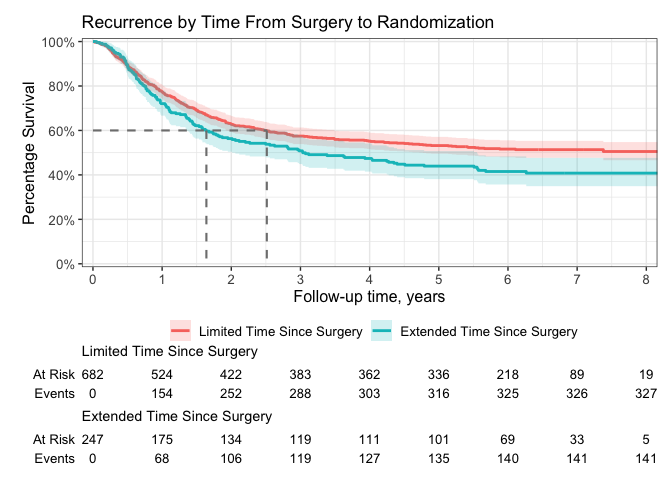
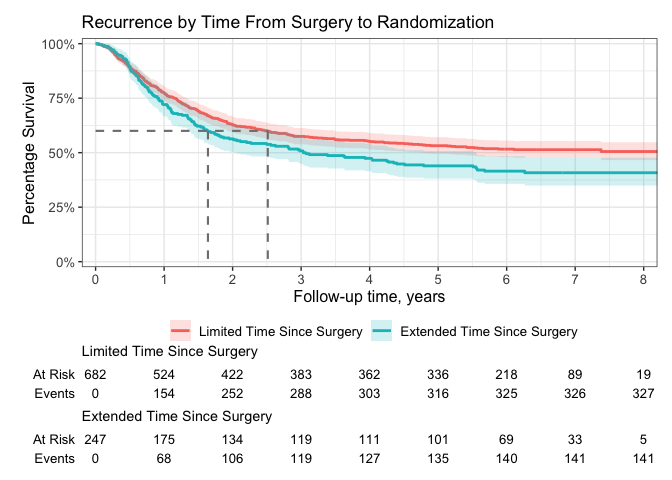
increased scales expanse

diff --git a/README.md b/README.md
@@ -72,6 +72,7 @@ library(ggsurvfit)
 
 p <- survfit2(Surv(time, status) ~ surg, data = df_colon) |>
   ggsurvfit(linewidth = 1) +
+  scale_ggsurvfit() +
   add_confidence_interval() +
   add_risktable() +
   add_quantile(y_value = 0.6, color = "gray50", linewidth = 0.75)
@@ -88,13 +89,7 @@ p +
   labs(
     y = "Percentage Survival",
     title = "Recurrence by Time From Surgery to Randomization",
-  ) +
-  # reduce padding on edges of figure and format axes
-  scale_y_continuous(label = scales::percent, 
-                     breaks = seq(0, 1, by = 0.2),
-                     expand = c(0.015, 0)) +
-  scale_x_continuous(breaks = 0:10, 
-                     expand = c(0.02, 0))
+  )
 ```
 
 <img src="man/figures/README-unnamed-chunk-2-1.png" width="100%" />
